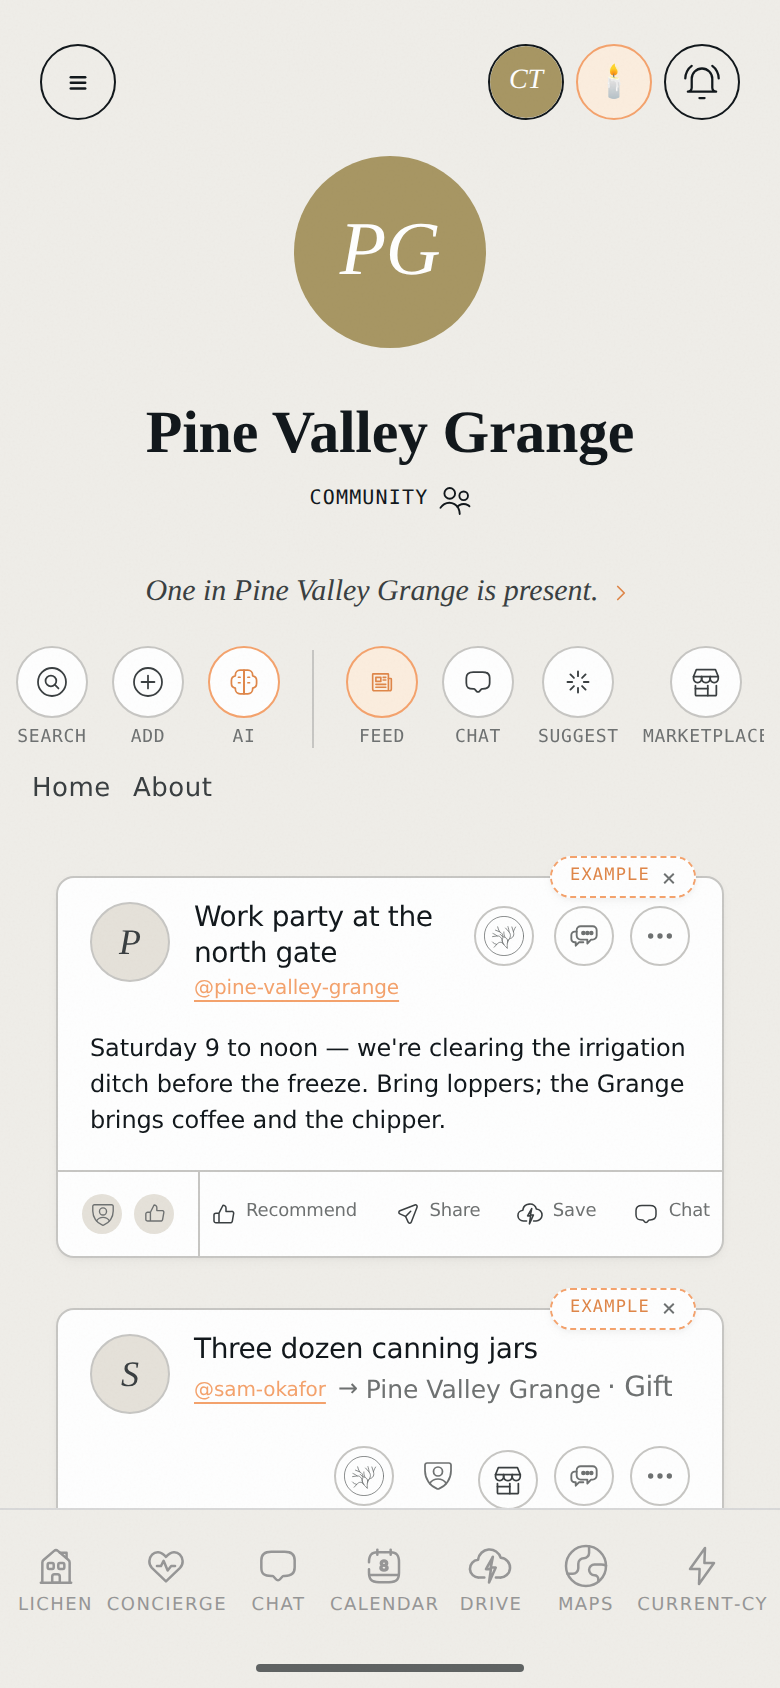
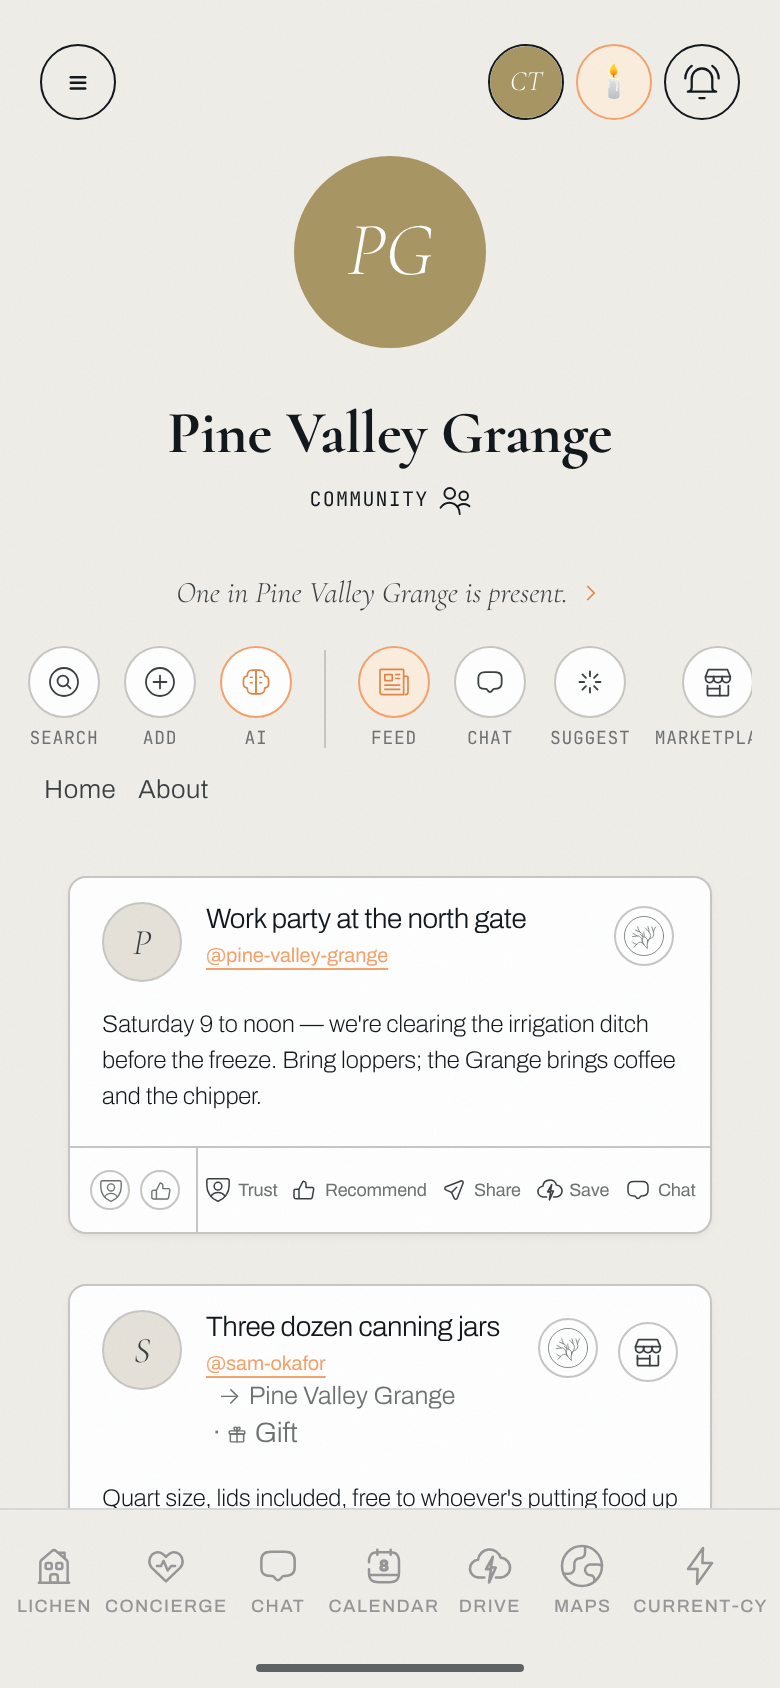
Sign in beside the menu, alpha-free pricing, fresh app screenshots (#1)
Three founder asks (2026-11-01):
- Mobile header: Sign in sits beside the hamburger (the toggle sheds
  its own auto margin; the pill's pushes the pair right).
- Get Involved: each plan's label rides above its own card; the
  platform-is-live copy folds INTO both plan boxes with a "Become an
  alpha tester" CTA; every "free three months" line becomes free
  throughout alpha (WeaveIn, WeavePitch FAQ + weave-in paragraph, the
  platform page's live-today line, page meta). The Donate blurb's
  stale "95%" becomes "after a small operating share" — the operating
  dial is live and no longer fixed.
- Screenshot audit: every app screenshot recaptured from production
  (390×844 @2x, test account + the standing FPO concierge board,
  badges/demo chrome hidden): home feed, Pine Valley Grange, WOW
  board, KOC plan week, care team, Current-cy wallet, the public
  booking month grid (now the Land Trust visual), Solstice event
  page, Countryman Stables' site. projects.ts points at /screens/;
  the January /img/2026/01 captures are superseded.

Claude-Session: https://claude.ai/code/session_01XTNK7RuTG23wY6dHi9vaLg

diff --git a/src/data/projects.ts b/src/data/projects.ts
@@ -1,4 +1,10 @@
 export const WP = '/img';
+// App screenshots live under /screens/ and were RECAPTURED from production
+// 2026-11-01 (founder: "audit each screenshot on the marketing website and
+// update them all to reflect the evolution of the platform") — protocol in
+// the lichen-health repo's CommunityConciergeMockups.astro: test account
+// only (the standing FPO concierge board), 390×844 @2x, badges and demo
+// chrome hidden for the photo.
 
 export interface Section { title?: string; img?: string; screenshot?: boolean; bgPhoto?: string; body: string[]; }
 export interface Project {
@@ -26,9 +32,9 @@ export const projects: Project[] = [
       body: "As social primates, community connection is vital to heal and stay well. As eternal souls, harmonic resonance with the collective field of energy that governs the health of our Mind, Body and Spirit is imperative to grow and thrive. And money is still the global, current-cy through which the exchange of energies is brokered between people, plants, animals and the land. Lichen considers all of these factors when delivering a comprehensive, functional medicine plan that helps you heal by remembering your divine interconnection with the planet and the universe.",
     },
     sections: [
-      { title: 'Connect', img: `${WP}/2026/01/care-connect-chat.png`, screenshot: true, bgPhoto: `${WP}/2026/01/bg-connect.jpg`, body: ["Your care team assembles around you, leveraging Lichen's Concierge platform to collaborate in weaving the land, plants, animals, elements, eco-spiritual practices, western medicine, naturopathic interventions and cutting edge technology necessary to best support your unique path to healing and expansion."] },
-      { title: 'Integrate', img: `${WP}/2026/01/concierge-wow.png`, screenshot: true, bgPhoto: `${WP}/2026/01/bg-integrate.jpg`, body: ["Your Web of Wellbeing tracks the mental, physical, spiritual, social, economic and environmental factors that are hindering your deepest healing and highest potential, weaving the organic intelligence of your care team with the artificial intelligence of Lichen's network to connect you to the next, best resources on your path to wholeness."] },
-      { title: 'Deliver', img: `${WP}/2026/01/concierge-koc.png`, screenshot: true, bgPhoto: `${WP}/2026/01/bg-deliver.jpg`, body: ["We translate your Web of Wellbeing into a personalized healing and growth plan. The language of your Kaleidoscope of Care maps to the mainstream medical system, so your care can be coordinated beyond the network when you need it to be. Because the network's currency is pinned to the incumbent, global economic system, members can budget and coordinate their care within (and outside) the network."] },
+      { title: 'Connect', img: `/screens/care-team.png`, screenshot: true, bgPhoto: `${WP}/2026/01/bg-connect.jpg`, body: ["Your care team assembles around you, leveraging Lichen's Concierge platform to collaborate in weaving the land, plants, animals, elements, eco-spiritual practices, western medicine, naturopathic interventions and cutting edge technology necessary to best support your unique path to healing and expansion."] },
+      { title: 'Integrate', img: `/screens/concierge-wow.png`, screenshot: true, bgPhoto: `${WP}/2026/01/bg-integrate.jpg`, body: ["Your Web of Wellbeing tracks the mental, physical, spiritual, social, economic and environmental factors that are hindering your deepest healing and highest potential, weaving the organic intelligence of your care team with the artificial intelligence of Lichen's network to connect you to the next, best resources on your path to wholeness."] },
+      { title: 'Deliver', img: `/screens/concierge-koc.png`, screenshot: true, bgPhoto: `${WP}/2026/01/bg-deliver.jpg`, body: ["We translate your Web of Wellbeing into a personalized healing and growth plan. The language of your Kaleidoscope of Care maps to the mainstream medical system, so your care can be coordinated beyond the network when you need it to be. Because the network's currency is pinned to the incumbent, global economic system, members can budget and coordinate their care within (and outside) the network."] },
     ],
     cta: { line: 'Ready to heal yourself?', label: 'Request to Join', href: '/signup' },
     seoTitle: 'Care — Lichen',
@@ -46,17 +52,17 @@ export const projects: Project[] = [
       learnMore: { label: 'Explore the Conscious Economy →', href: '/conscious-economy' },
     },
     sections: [
-      { title: 'Revenue Model', img: `${WP}/2026/01/business-revenue-wallet.png`, screenshot: true, bgPhoto: `${WP}/2026/01/bg-revenue.jpg`, body: [
+      { title: 'Revenue Model', img: `/screens/currentcy-wallet.png`, screenshot: true, bgPhoto: `${WP}/2026/01/bg-revenue.jpg`, body: [
         "With lean operations and no investors or shareholders to pay, all profits from our Content, Community and Concierge memberships not required to run the platform's technology and fund the salaries of Lichen's minimal staff flow back into subsidizing access to the resources that members need to heal, grow, realize their purpose and enjoy their lives.",
         "Subsidies are tracked and fully transparent, because there is no shame in receiving support when you've been under-resourced by the systems that are crumbling. Concierge Services are provided for members receiving subsidies, to help them plot a course toward sovereign interdependence.",
         "Artificial intelligence is being trained to identify and optimize the re-balancing process — today, human stewards make every routing call against written criteria, teaching the algorithm as they go — helping us return to a state of reciprocity with each other and the planet as quickly and efficiently as possible.",
         "Every contribution and subsidy is tracked through Lichen's Universal Current-cy — a transparent unit of account pegged to the incumbent global economy, so value can be honored within the network and translated into the wider world. We call this Universal Value Attribution: a system that returns value to every participant, human and non-human alike.",
       ] },
-      { title: 'Philanthropic Model', img: `${WP}/2026/01/countryman-stables.png`, screenshot: true, bgPhoto: `${WP}/2026/01/bg-philanthropic.jpg`, body: [
+      { title: 'Philanthropic Model', img: `/screens/countryman-stables.png`, screenshot: true, bgPhoto: `${WP}/2026/01/bg-philanthropic.jpg`, body: [
         "With a clear path to self-sustainability via member subscriptions, our 501c3 Nonprofit is poised to pass donations through to network members, which makes donating to Lichen compelling for those passionate about immediate impact. Because 100% of our technological infrastructure is focused on supporting members in collaborating with each other, we are well positioned to foster efficiency across the network.",
         "Because the platform is designed and built in daily partnership with AI engineering, we can solve operational problems for our network members via the buildout of additional platform features as the need arises.",
       ] },
-      { title: 'Land Trust', img: `${WP}/2026/01/business-landtrust.png`, screenshot: true, bgPhoto: `${WP}/2026/01/bg-landtrust.jpg`, body: [
+      { title: 'Land Trust', img: `/screens/booking-public.png`, screenshot: true, bgPhoto: `${WP}/2026/01/bg-landtrust.jpg`, body: [
         "The Lichen Land Trust is a structure we intend to build, not one that exists yet — drafting it properly takes legal counsel, and funding that work is part of what we're raising now. The design: Lichen owned and operated facilities in full service of the community, with the app's calendar integrations (already built) letting local practitioners, communities and groups book spaces and services. If network members require resources to restore, protect or maintain the land on which they offer healing to the community, donations and/or revenue would pass through to the land steward via the trust.",
         "The covenant we intend to write into it: if private owners wish to remove their land from the trust, they must demonstrate that any investment made in their property has been repaid to the community via free or reduced fee services. If they wish to sell the land for profit, the value added via Lichen Land Trust must be paid out to the community to use in service of healing as they see fit.",
       ] },
@@ -77,19 +83,19 @@ export const projects: Project[] = [
       learnMore: { label: 'Explore the Conscious Economy →', href: '/conscious-economy' },
     },
     sections: [
-      { title: 'Lichen', img: `${WP}/2026/01/platform-home.png`, screenshot: true, body: [
+      { title: 'Lichen', img: `/screens/platform-home.png`, screenshot: true, body: [
         "Lichen provides a comprehensive ecosystem for humans, plants, animals and land to share information and resources — organized by Social and Actionable content, so a story and an offering each get the right frame.",
         "Members can post and manage Events; buy, sell, trade and gift on Marketplace; conduct Courses; manage and share books, articles, music, videos, photos and memes via Library; nourish themselves and each other with Food; share their creative gifts via Art; and connect with other network members through Directory.",
         "Members can engage the entire network, or drop in to the Communities, Groups and Organizations to which they belong. Unique to each member is their My-celium, the network of Members, Providers, Organizations and Places that comprise their unique, human web.",
         "The Home, Concierge, Chat, Calendar, Save and Maps features are fully integrated with the content and utilities provided within the network, thereby creating a seamless experience for Members, Providers, Organizations, Groups and Communities to collaborate, innovate, create, play and be, together.",
         "Beneath every exchange runs Lichen's Universal Current-cy — the silicon mycelium's accounting layer. Time, knowledge, goods, services, and the contributions of plants, animals and land are all tracked and made interchangeable, pegged to the global economy so value can flow within the network and translate beyond it.",
-        "All of this is live today — and every new member's first three months of full Concierge membership are free.",
+        "All of this is live today — and membership is free for the whole alpha.",
       ] },
-      { title: 'Community', img: `${WP}/2026/01/community-event.png`, screenshot: true, body: [
+      { title: 'Community', img: `/screens/community-event.png`, screenshot: true, body: [
         "Inspired by the efficiency and wisdom of the Fibonacci Spiral, each Community, Group, Organization and Place that decides to use the platform enjoys their own, complete ecosystem, which includes all of the features of the greater network. On the roadmap: spinning out your own progressive web application, so members could reach you via the Lichen App or via your owned and operated app.",
         "You can further filter the information and resources of the platform by the Members, Providers, Communities, Groups and Organizations you trust. Results can be expanded to include those trusted by someone you trust. This information is kept private, thereby dissuading inauthentic endorsements while automating and scaling the process of providing (and receiving) trusted recommendations surrounding what information you digest, the goods and services you exchange, the healthcare you receive, the places you go, and the entertainment you enjoy.",
       ] },
-      { title: 'Concierge', img: `${WP}/2026/01/concierge-koc.png`, screenshot: true, body: [
+      { title: 'Concierge', img: `/screens/concierge-koc.png`, screenshot: true, body: [
         "The Concierge utility provides a safe, secure and private ecosystem within the Lichen app, where practitioners can collaborate to deliver the next, best intervention on your journey of healing, growth and transformation. Integrated with Lichen's chat feature, communication is easy and seamless.",
         "Lichen providers take turns being on-call for urgent care needs, ensuring that members get support while avoiding practitioner burnout. Each member also has an (optional) AI Assistant to synthesize information, answer questions and connect you with the bio/psycho/social/spiritual/ecological information you need to unlock your own, inner wisdom to heal and grow into your highest self. Your care team's human judgment always leads — the Assistant organizes and suggests, reading only what you've consented to share.",
       ] },

diff --git a/src/styles/global.css b/src/styles/global.css
@@ -127,7 +127,11 @@ input, textarea, select { font: inherit; color: inherit; }
 .fnav-toggle { order: 3; }
 .fnav-links { order: 4; }
 @media (min-width: 861px) { .fnav-signin { margin-left: 16px; order: 5; } .fnav-links { margin-left: auto; } }
-.fnav-toggle { display: none; margin-left: auto; flex-direction: column; gap: 4px; }
+/* Sign in sits BESIDE the hamburger on mobile (founder 2026-11-01: "let's
+   move sign in closer to the hamburger menu") — the pill's own
+   margin-left:auto pushes the pair right; the toggle no longer carries its
+   own auto margin, which used to strand Sign in mid-header. */
+.fnav-toggle { display: none; flex-direction: column; gap: 4px; }
 .fnav-toggle span { width: 22px; height: 2px; background: currentColor; display: block; }
 .fheader:not(.solid) .fnav-toggle { color: #fff; }
 
